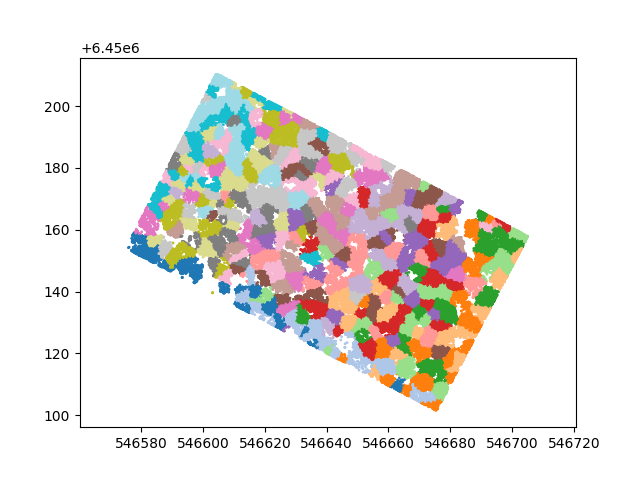
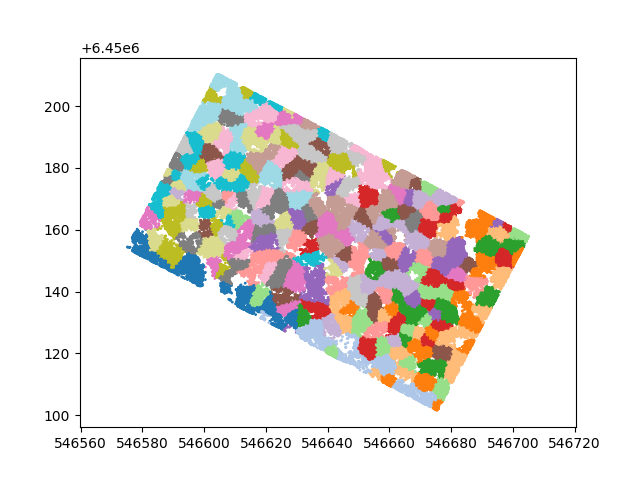
Refactoring scripts, good metrics

Changed region(s): [[0.1875, 0.1562, 0.8438, 0.875], [0.0938, 0.9062, 0.8438, 0.9375]]

diff --git a/tree_detection_algo/detect.py b/tree_detection_algo/detect.py
@@ -22,32 +22,31 @@ def detect(points: np.ndarray, heights: np.ndarray, plot_number: str) -> tuple[p
 
 
     adaptive_radii = {
-    "01": 1.421053,
-    "02": 1.368421,
-    "03": 1.526316,
-    "04": 1.736842,
-    "05": 1.842105,
-    "06": 1.789474,
-    "07": 1.421053,
-    "08": 1.421053,
-    "09": 1.052632,
-    "10": 1.157895
-    }
+     "01": 1.421053,
+     "02": 1.368421,
+     "03": 1.526316,
+     "04": 1.736842,
+     "05": 1.33,
+     "06": 1.22,
+     "07": 1.11,
+     "08": 1.11,
+     "09": 1.11,
+     "10": 1.00
+     }
     radius = adaptive_radii[plot_number]
+
     tree = cKDTree(points[:, :2])
-
+    sorted_indices = np.argsort(heights)[::-1]
     is_local_max = np.zeros(len(points), dtype=bool) # we declare a is_local_max with same length as the points
-    seen_mask = np.zeros(len(points), dtype=bool)
-    for i, (x, y, z) in enumerate(points): #iterate over all points
-
-        # for the current point, return all indices within the euclidean distance defined by radius
-        idx = tree.query_ball_point([x, y], radius)
-        highest_neighbor = idx[np.argmax(heights[idx])]
-        # if index j is higher, set as local maximum
-        seen_mask[idx] = True
-        seen_mask[highest_neighbor] = False 
-        if i == highest_neighbor:
-            is_local_max[i] = True
+    for idx in sorted_indices:
+        if is_local_max[idx]:  # Skip if already processed as part of another tree
+            continue
+        x, y, z = points[idx, 0], points[idx, 1], points[idx, 2]
+        neighbors = tree.query_ball_point([x, y], radius)
+        if idx == neighbors[np.argmax(heights[neighbors])]:
+            is_local_max[idx] = True
+            is_local_max[neighbors] = False
+            is_local_max[idx] = True
 
     # we get the points considered local maximum
     treetops = points[is_local_max] # filter out points that are local maxes - possible treetops
@@ -68,6 +67,11 @@ def detect(points: np.ndarray, heights: np.ndarray, plot_number: str) -> tuple[p
     "cluster": cluster_labels
     })
 
+
+    cluster_counts = df.groupby('cluster').size()
+    valid_clusters = cluster_counts[cluster_counts >= 20].index
+    df = df[df.cluster.isin(valid_clusters)].copy()
+
     # we plot how the clustering looks, this will eventually become one single point
     fig, ax = plt.subplots(1,1)
     ax.scatter(df.x, df.y, c=df.cluster, s=1, cmap='tab20')
@@ -79,8 +83,14 @@ def detect(points: np.ndarray, heights: np.ndarray, plot_number: str) -> tuple[p
     # the maximum value of z and assume that it is most likely
     # the tree top around that cluster
     # we then take the value of x, y and z make a df containing that info
-    treetops = (df.loc[df.groupby("cluster")["z"].idxmax(),
-        ["cluster", "x", "y", "z"]].reset_index(drop=True))
+    treetops = df.groupby("cluster").apply(
+        lambda g: pd.Series({
+            'cluster': g.name,
+            'x': g.loc[g['z'].idxmax(), 'x'],  # x,y from highest point
+            'y': g.loc[g['z'].idxmax(), 'y'],
+            'z': g['z'].quantile(0.98)  # using the 98th percentile
+        })
+    ).reset_index(drop=True)
 
     # normal geopandas stuff to create a gdf
     geometry = gpd.points_from_xy(treetops['x'], treetops['y'])

diff --git a/tree_detect_kd.py b/tree_detect_kd.py
@@ -3,6 +3,7 @@ import geopandas as gpd
 import csv
 import numpy as np
 import pandas as pd
+import scipy 
 
 from tree_detection_algo.detect import detect
 from tree_detection_algo.filter import filter_ground
@@ -12,6 +13,13 @@ from tree_detection_algo.evaluate import calculate_metrics
 from tree_detection_algo.normalize import normalize_cloud_height
 from tree_detection_algo.match import match_candidates
 
+def crop_by_other(points: np.ndarray, other: np.ndarray) -> np.ndarray:
+    """Crop points by the extent of other."""
+    hull = scipy.spatial.ConvexHull(other[:, :2])
+    vertex_points = hull.points[hull.vertices]
+    delaunay = scipy.spatial.Delaunay(vertex_points)
+    within_hull = delaunay.find_simplex(points[:, :2]) >= 0
+    return points[within_hull]
 
 def process_plot(plot_number: str):
     """ Main function to put everything together
@@ -40,6 +48,7 @@ def process_plot(plot_number: str):
     gt = np.column_stack((ground_truth.geometry.x, ground_truth.geometry.y, ground_truth["height"]))
     candidates = treetops[["x", "y", "z"]].to_numpy()
 
+    candidates = crop_by_other(candidates, gt)
 
     out = match_candidates(gt, candidates, max_distance = 5, max_height_difference=3)
     out_df = pd.DataFrame(out)

diff --git a/tree_detection_algo/filter.py b/tree_detection_algo/filter.py
@@ -15,7 +15,7 @@ def filter_ground(plot_las: LasData, percentile: int) -> tuple[np.ndarray, np.nd
     """
 
     heights = plot_las[:, 2]
-    min_z = np.percentile(heights, 2) 
+    min_z = 3
     mask = heights > min_z
     points = plot_las[mask]
     heights = heights[mask]
